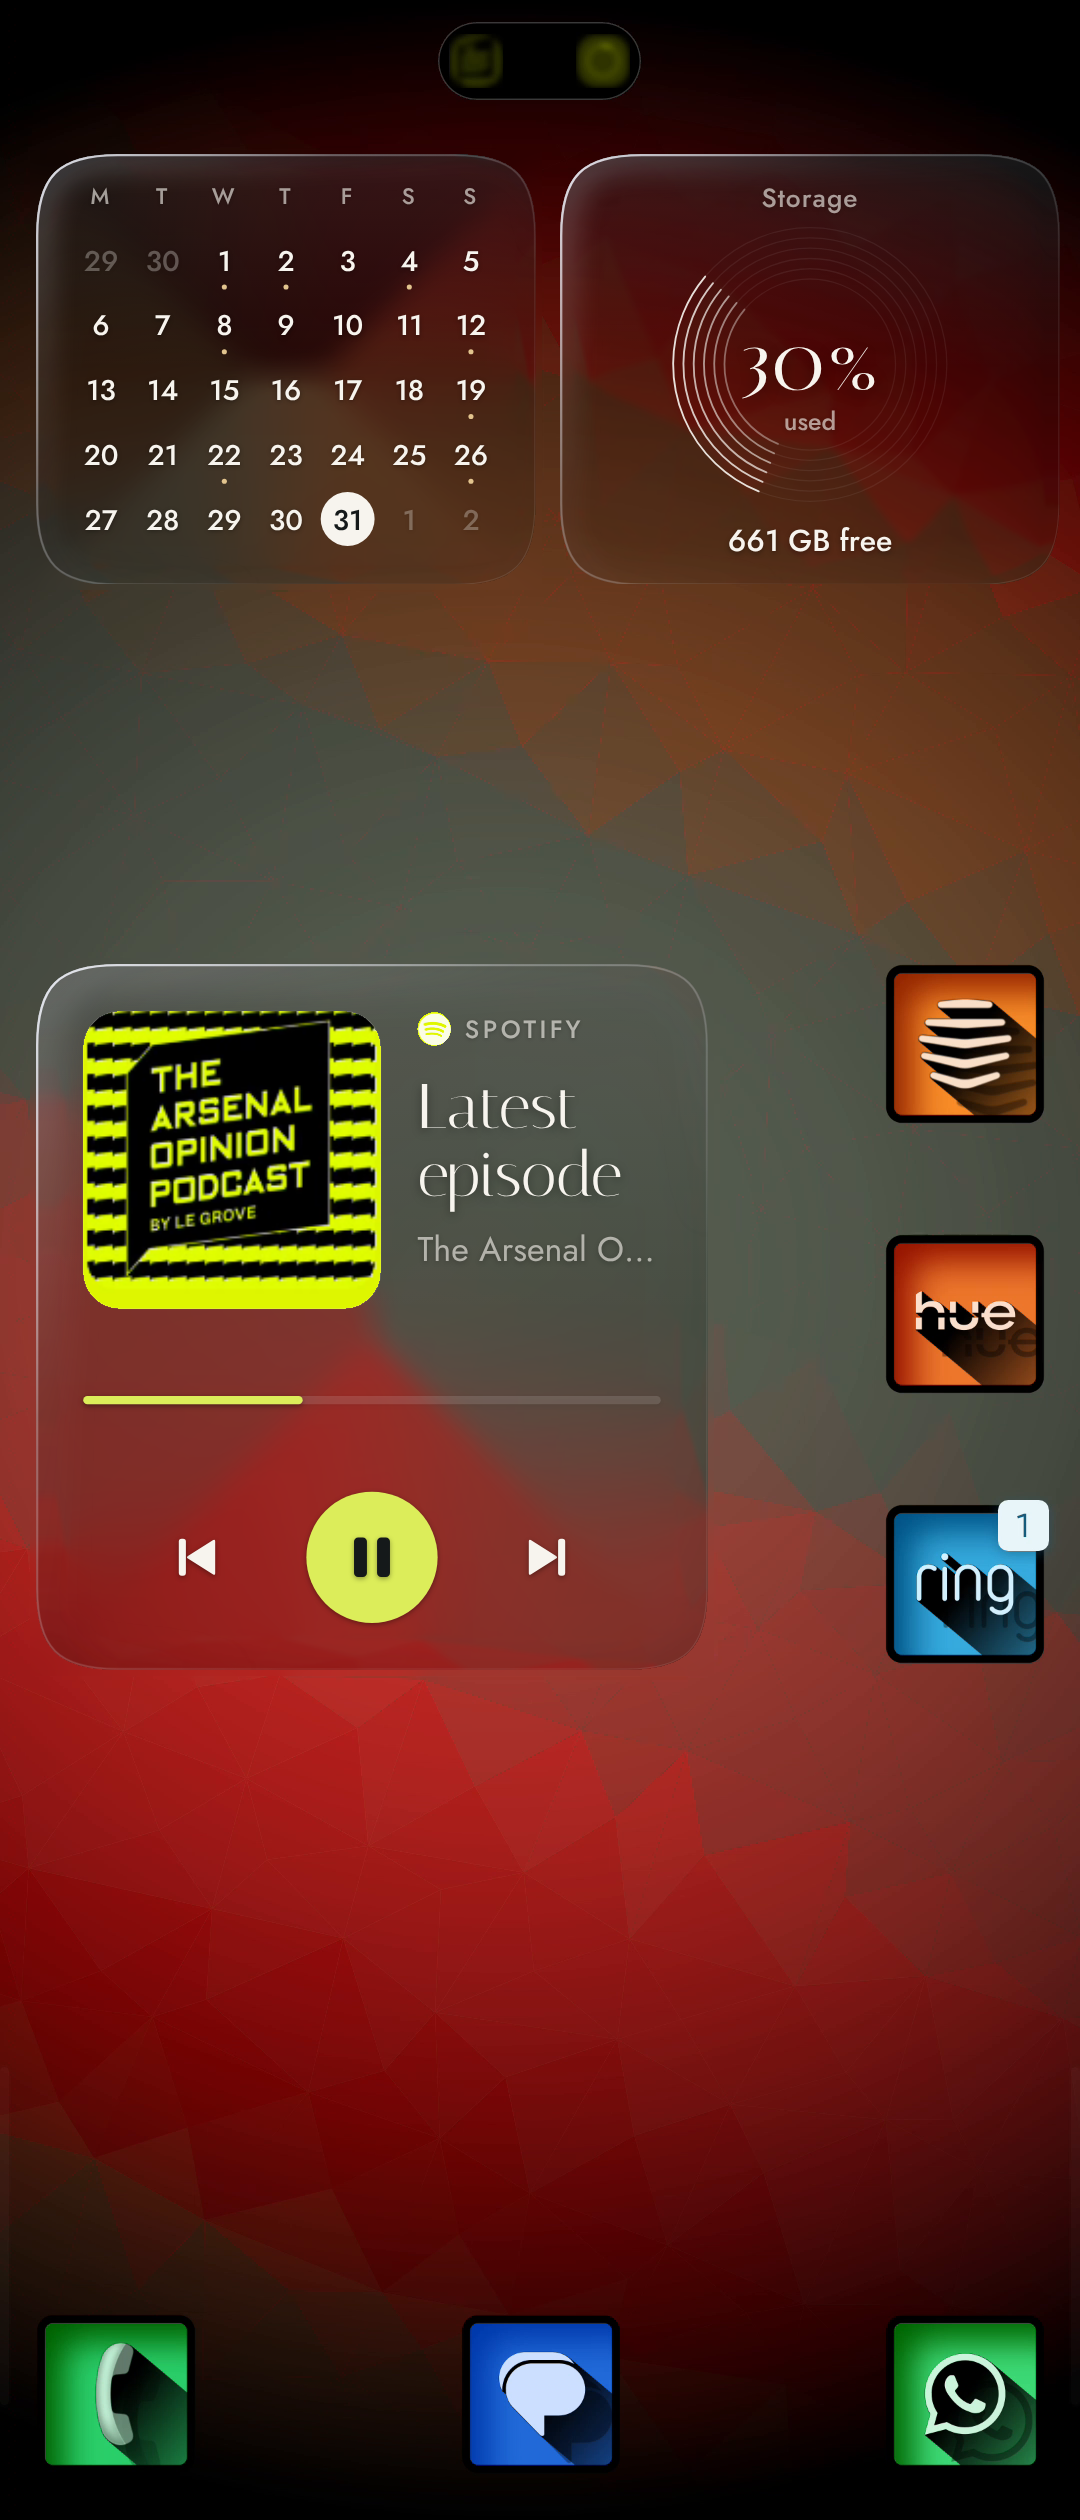
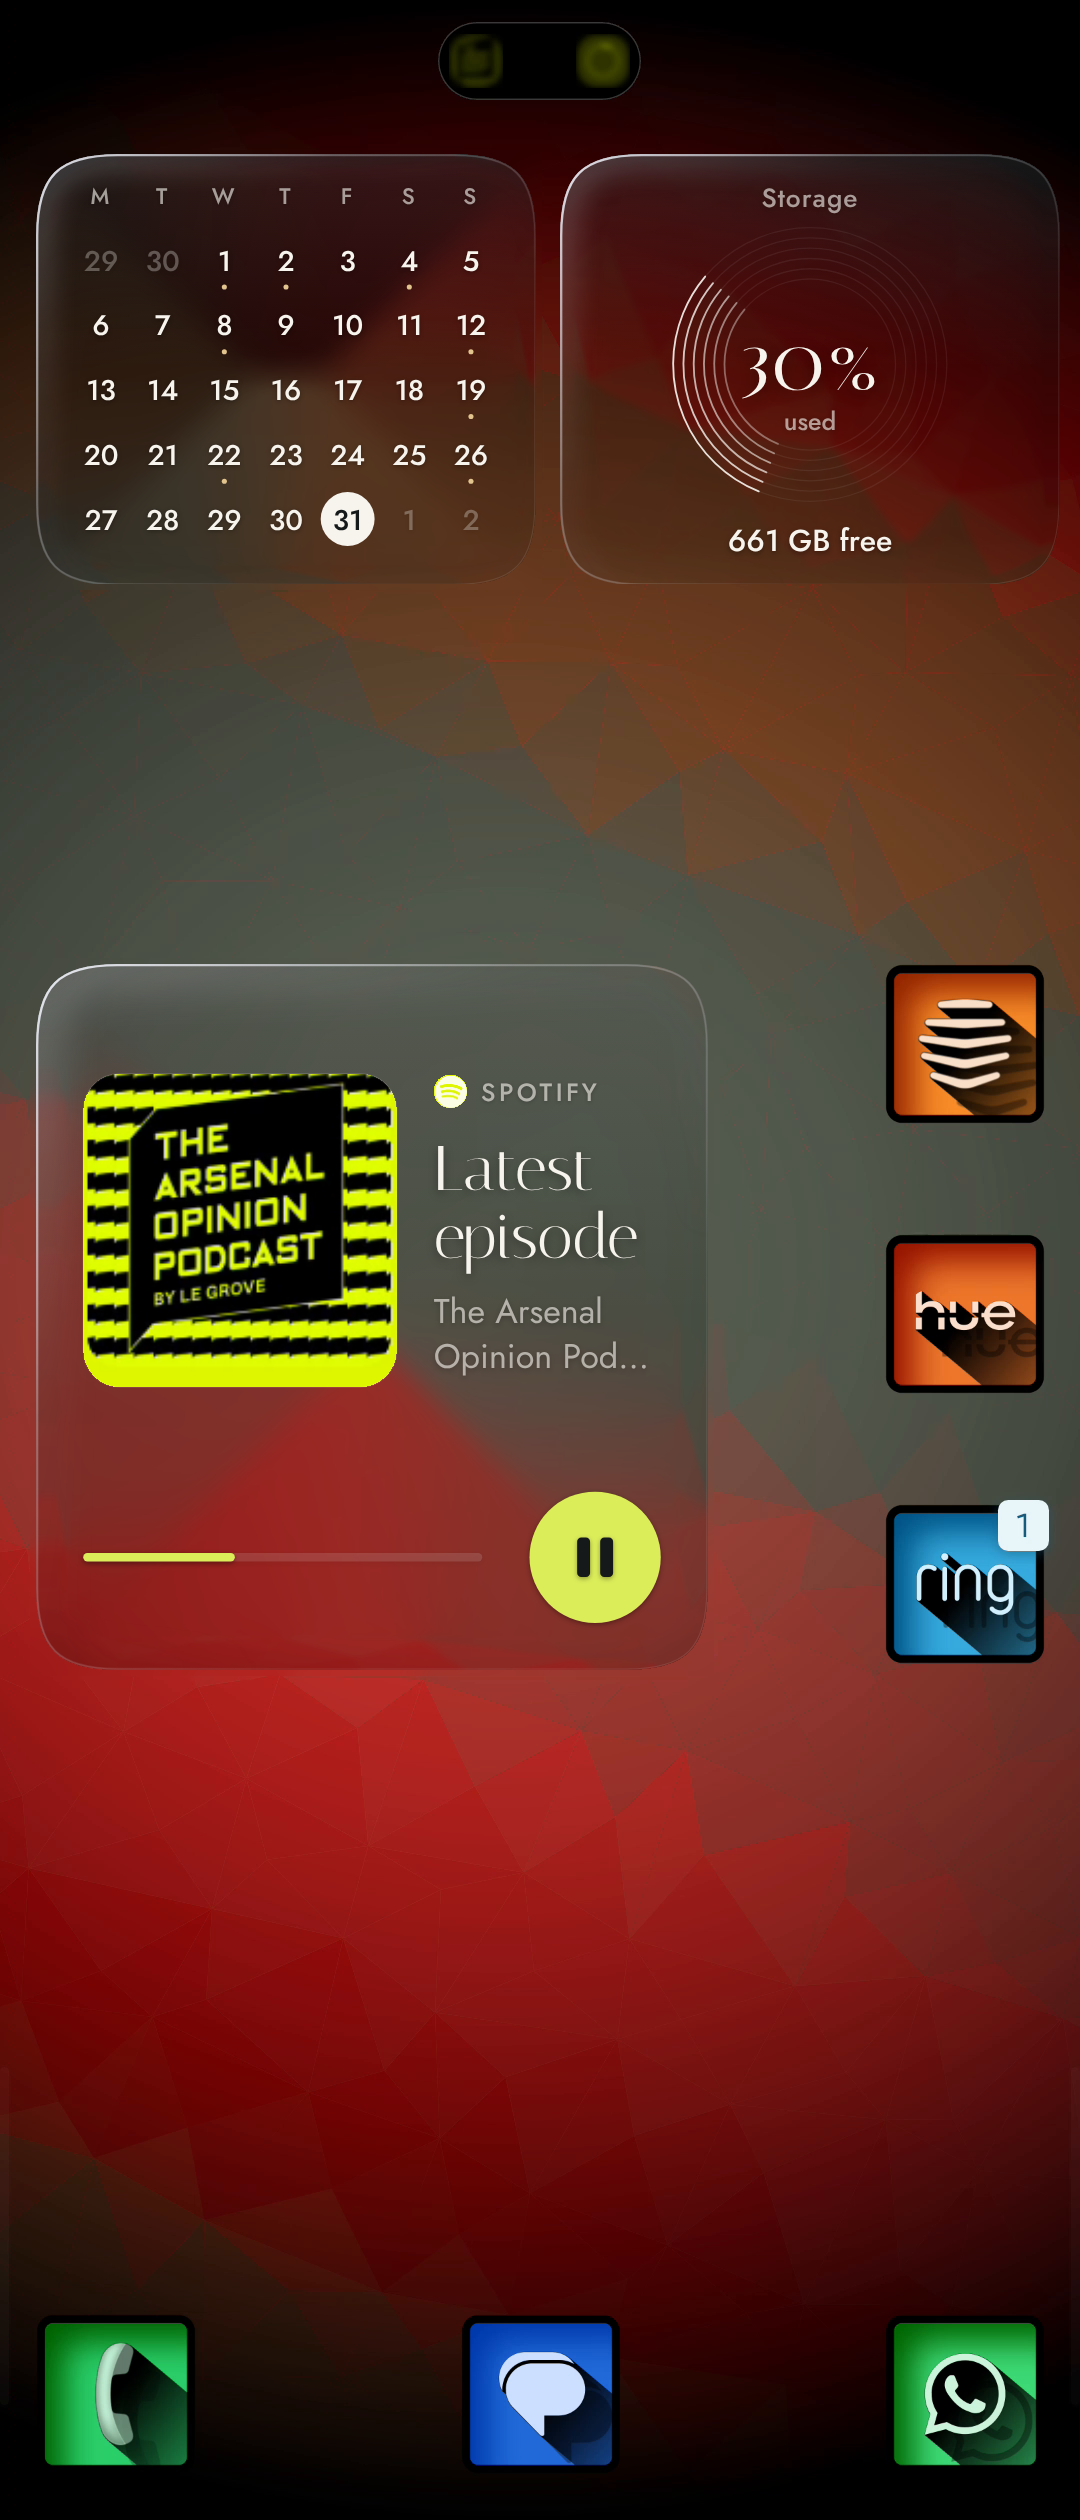
Music: play and pause as the only control
Any other tap opens the player. Artwork takes the room the skip row left;
the large layout centres its artwork and words above the foot.

Claude-Session: https://claude.ai/code/session_01QMeVPiLbYojy7qgmqpFMAv

diff --git a/app/src/main/java/com/fergusonconsultancy/foldwidgets/MusicPainter.kt b/app/src/main/java/com/fergusonconsultancy/foldwidgets/MusicPainter.kt
@@ -13,19 +13,19 @@ import android.graphics.Shader
 /**
  * The music widget. Its content belongs to whatever is playing: the player's name and icon, the
  * artwork, the title and artist, and the one colour the artwork lends to the play disc and the
- * progress line. Only the controls the player supports are drawn.
+ * progress line.
  *
  * Concentrato by size: as the widget shrinks, things fall away in a fixed order until only the
  * vital thing is left. Album, then the player's name, then the progress line and the artist, then
  * the title, until only the artwork and the play disc remain.
  * - Poster, the large default: large artwork, the title set in Italiana beside it.
- * - Stack, the small default: artwork and words above, controls below.
+ * - Stack, the small default: artwork and words above, the line and the play disc below.
  * - Compact: artwork, title and play.
  * - Tile: the artwork alone, with play.
  * - Wide, for long thin shapes: artwork the full height on the left, everything else beside it.
  *
- * Disclosure by need: the skip buttons appear only while something plays. Paused or silent, the
- * one thing to do is play.
+ * One control: play and pause (Mechack, 31 Oct). Everything else is done in the player, which any
+ * other tap on the widget opens.
  */
 object MusicPainter : Painter {
 
@@ -47,7 +47,9 @@ object MusicPainter : Painter {
     private fun stack(c: Context, cv: Canvas, s: Surface, np: NowPlaying?): Scene {
         val k = minOf(s.w / 190f, s.h / 164f).coerceIn(0.72f, 1.6f)
         val p = 14f * k
-        val a = minOf(58f * k, s.h * 0.42f)
+        val r = 20f * k
+        // Without skip buttons the artwork takes the room they left
+        val a = minOf(76f * k, s.h - 2 * p - 2 * r - 12f * k, s.w * 0.42f)
         val art = RectF(p, p, p + a, p + a)
         artwork(cv, art, np, s, 10f * k)
         val x0 = art.right + 12f * k
@@ -60,29 +62,25 @@ object MusicPainter : Painter {
         cv.drawText(fit(titleOf(np), titleP, tw), x0, titleBase, titleP)
         cv.drawText(fit(artistOf(c, np), artistP, tw), x0, artistBase, artistP)
 
-        val r = 20f * k
-        val cy = s.h - p - r
-        val gap = minOf(56f * k, (s.w - 2 * p) / 3.2f)
-        val hits = ArrayList<Hit>()
-        val ly = (art.bottom + cy - r) / 2f
-        val line = if (cy - r - art.bottom > 10f * k) progress(s, np, RectF(p, ly - 1.5f * k, s.w - p, ly + 1.5f * k)) else null
-        Media.openAct(c, np)?.let { hits.add(Hit(RectF(0f, 0f, s.w, (line?.rect?.top ?: (cy - r)) - 2f * k), it, "Open ${np?.app ?: "player"}")) }
-        hits += controls(cv, s, np, s.w / 2f, cy, gap, r, 15f * k)
-        return Scene(hits, line)
+        return foot(c, cv, s, np, p, s.w - p, s.h - p - r, r, 1.5f * k, 14f * k)
     }
 
     private fun poster(c: Context, cv: Canvas, s: Surface, np: NowPlaying?): Scene {
         val k = minOf(s.w / 256f, s.h / 269f).coerceIn(0.8f, 1.7f)
         val p = 18f * k
-        val a = minOf(s.h * 0.5f, (s.w - 2 * p - 14f * k) * 0.55f)
-        val art = RectF(p, p, p + a, p + a)
+        val r = 25f * k
+        val footTop = s.h - p - 2 * r - 16f * k
+        val a = minOf(footTop - p, (s.w - 2 * p - 14f * k) * 0.58f)
+        // The artwork and words sit centred in the room above the foot, not stranded at the top
+        val top = p + ((footTop - p - a) / 2f).coerceAtLeast(0f)
+        val art = RectF(p, top, p + a, top + a)
         artwork(cv, art, np, s, 14f * k)
         val x0 = art.right + 14f * k
         val tw = s.w - x0 - p
-        eyebrow(c, cv, x0, p + 2f * k, tw, 9.5f * k, np, s)
+        eyebrow(c, cv, x0, top + 2f * k, tw, 9.5f * k, np, s)
 
         // The title in Italiana, up to three lines, then the artist beneath
-        var y = p + 2f * k + 9.5f * k * 1.4f + 12f * k
+        var y = top + 2f * k + 9.5f * k * 1.4f + 12f * k
         val titleP = c.ink(24f * k, s.ink(x0 + tw / 2, y + 20f * k), display = true)
         // As many lines as fit beside the artwork, the last one ellipsised, never silently cut
         val titleRoom = ((art.bottom - y - titleP.textSize) / (titleP.textSize * 1.08f)).toInt() + 1
@@ -100,15 +98,7 @@ object MusicPainter : Painter {
             cv.textTop(fit(np.album, albumP, tw), x0, y + 4f * k, albumP)
         }
 
-        val r = 25f * k
-        val cy = s.h - p - r
-        val gap = minOf(74f * k, (s.w - 2 * p) / 3.3f)
-        val ly = (art.bottom + cy - r) / 2f
-        val line = if (cy - r - art.bottom > 12f * k) progress(s, np, RectF(p, ly - 1.6f * k, s.w - p, ly + 1.6f * k)) else null
-        val hits = ArrayList<Hit>()
-        Media.openAct(c, np)?.let { hits.add(Hit(RectF(0f, 0f, s.w, (line?.rect?.top ?: (cy - r)) - 3f * k), it, "Open ${np?.app ?: "player"}")) }
-        hits += controls(cv, s, np, s.w / 2f, cy, gap, r, 18f * k)
-        return Scene(hits, line)
+        return foot(c, cv, s, np, p, s.w - p, s.h - p - r, r, 1.6f * k, 18f * k)
     }
 
     private fun wide(c: Context, cv: Canvas, s: Surface, np: NowPlaying?): Scene {
@@ -127,15 +117,7 @@ object MusicPainter : Painter {
         cv.textTop(fit(artistOf(c, np), artistP, tw), x0, y, artistP); y += artistP.textSize * 1.2f
 
         val r = 18f * k
-        val cy = s.h - p - r
-        val gap = 48f * k
-        val first = x0 + 12f * k
-        val ly = (y + cy - r) / 2f
-        val line = if (cy - r - y > 10f * k) progress(s, np, RectF(x0, ly - 1.4f * k, s.w - p, ly + 1.4f * k)) else null
-        val hits = ArrayList<Hit>()
-        Media.openAct(c, np)?.let { hits.add(Hit(RectF(0f, 0f, x0 - 4f * k, s.h), it, "Open ${np?.app ?: "player"}")) }
-        hits += controls(cv, s, np, first + gap, cy, gap, r, 14f * k)
-        return Scene(hits, line)
+        return foot(c, cv, s, np, x0, s.w - p, s.h - p - r, r, 1.4f * k, 12f * k)
     }
 
     private fun compact(c: Context, cv: Canvas, s: Surface, np: NowPlaying?): Scene {
@@ -250,23 +232,21 @@ object MusicPainter : Painter {
         if (np?.playing == true) Glyphs.pause(cv, cx, cy, glyph * 0.9f, mark) else Glyphs.play(cv, cx + glyph * 0.04f, cy, glyph, mark)
     }
 
-    /** Previous, play and next around ([cx], [cy]); only what the player supports. */
-    private fun controls(cv: Canvas, s: Surface, np: NowPlaying?, cx: Float, cy: Float, gap: Float, r: Float, glyph: Float): List<Hit> {
-        val hits = ArrayList<Hit>()
-        val reach = maxOf(r * 1.15f, 22f)
-        fun area(x: Float) = RectF(x - reach, cy - reach, x + reach, cy + reach)
-        val playing = np?.playing == true
-        if (playing && np!!.canPrevious) {
-            Glyphs.skip(cv, cx - gap, cy, glyph, s.ink(cx - gap, cy), forward = false)
-            hits += Hit(area(cx - gap), Act.Send(TapReceiver.ACTION_PREVIOUS), "Previous")
-        }
+    /**
+     * The foot of the widget: the progress line running from [left] to the play disc, which sits at
+     * [right] on the line's centre [cy]. The disc is the only control; every other tap opens the
+     * player, where anything else can be done.
+     */
+    private fun foot(c: Context, cv: Canvas, s: Surface, np: NowPlaying?, left: Float, right: Float, cy: Float, r: Float,
+                     thickness: Float, gap: Float): Scene {
+        val cx = right - r
+        val line = progress(s, np, RectF(left, cy - thickness, cx - r - gap, cy + thickness))
         disc(cv, s, np, cx, cy, r, r * 0.78f)
-        hits += Hit(area(cx), Act.Send(TapReceiver.ACTION_PLAY), if (np?.playing == true) "Pause" else "Play")
-        if (playing && np!!.canNext) {
-            Glyphs.skip(cv, cx + gap, cy, glyph, s.ink(cx + gap, cy), forward = true)
-            hits += Hit(area(cx + gap), Act.Send(TapReceiver.ACTION_NEXT), "Next")
-        }
-        return hits
+        val hits = ArrayList<Hit>()
+        Media.openAct(c, np)?.let { hits.add(Hit(RectF(0f, 0f, s.w, s.h), it, "Open ${np?.app ?: "player"}")) }
+        val reach = maxOf(r * 1.3f, 24f)
+        hits += Hit(RectF(cx - reach, cy - reach, cx + reach, cy + reach), Act.Send(TapReceiver.ACTION_PLAY), if (np?.playing == true) "Pause" else "Play")
+        return Scene(hits, line)
     }
 
     /** [b] scaled to cover [r], centred. */

diff --git a/app/src/main/java/com/fergusonconsultancy/foldwidgets/Media.kt b/app/src/main/java/com/fergusonconsultancy/foldwidgets/Media.kt
@@ -42,8 +42,6 @@ class NowPlaying(
         val pos = if (playing && updated > 0) position + ((SystemClock.elapsedRealtime() - updated) * speed).toLong() else position
         return (pos.toFloat() / duration).coerceIn(0f, 1f)
     }
-    val canPrevious get() = actions == 0L || actions and PlaybackState.ACTION_SKIP_TO_PREVIOUS != 0L
-    val canNext get() = actions == 0L || actions and PlaybackState.ACTION_SKIP_TO_NEXT != 0L
 }
 
 /**
@@ -52,7 +50,7 @@ class NowPlaying(
  * paused; among equals, the most recently active wins.
  */
 object Media {
-    enum class Control { TOGGLE, NEXT, PREVIOUS }
+    enum class Control { TOGGLE }
 
     private fun component(c: Context) = ComponentName(c, MediaListener::class.java)
 
@@ -141,11 +139,7 @@ object Media {
         val ctl = pick(controllers(c))
         if (ctl == null) {
             // No session: hand the key to whichever app last played, as a headset button would
-            val code = when (what) {
-                Control.TOGGLE -> KeyEvent.KEYCODE_MEDIA_PLAY
-                Control.NEXT -> KeyEvent.KEYCODE_MEDIA_NEXT
-                Control.PREVIOUS -> KeyEvent.KEYCODE_MEDIA_PREVIOUS
-            }
+            val code = KeyEvent.KEYCODE_MEDIA_PLAY
             val am = c.getSystemService(AudioManager::class.java)
             am.dispatchMediaKeyEvent(KeyEvent(KeyEvent.ACTION_DOWN, code))
             am.dispatchMediaKeyEvent(KeyEvent(KeyEvent.ACTION_UP, code))
@@ -154,8 +148,6 @@ object Media {
         val t = ctl.transportControls
         when (what) {
             Control.TOGGLE -> if (active(ctl.playbackState?.state)) t.pause() else t.play()
-            Control.NEXT -> t.skipToNext()
-            Control.PREVIOUS -> t.skipToPrevious()
         }
     }
 

diff --git a/app/src/main/java/com/fergusonconsultancy/foldwidgets/Glyphs.kt b/app/src/main/java/com/fergusonconsultancy/foldwidgets/Glyphs.kt
@@ -34,19 +34,6 @@ object Glyphs {
         c.drawRoundRect(RectF(cx + gap / 2, cy - h / 2, cx + gap / 2 + bw, cy + h / 2), bw * 0.32f, bw * 0.32f, p)
     }
 
-    /** Skip: a triangle into a bar. [forward] points it right. */
-    fun skip(c: Canvas, cx: Float, cy: Float, s: Float, colour: Int, forward: Boolean) {
-        val h = s * 0.78f; val tw = s * 0.62f; val bw = s * 0.15f
-        val dir = if (forward) 1f else -1f
-        val start = cx - dir * (tw + bw) / 2f
-        val tip = start + dir * tw
-        c.drawPath(Path().apply {
-            moveTo(start, cy - h / 2); lineTo(tip, cy); lineTo(start, cy + h / 2); close()
-        }, fill(colour, s * 0.1f))
-        val bx = if (forward) tip else tip - bw
-        c.drawRoundRect(RectF(bx, cy - h / 2, bx + bw, cy + h / 2), bw * 0.4f, bw * 0.4f, fill(colour))
-    }
-
     /** No artwork: a record, the circle as the perfect graphic shape. */
     fun record(c: Canvas, r: RectF, ink: Int) {
         val cx = r.centerX(); val cy = r.centerY(); val rad = minOf(r.width(), r.height()) * 0.34f

diff --git a/app/src/main/java/com/fergusonconsultancy/foldwidgets/Taps.kt b/app/src/main/java/com/fergusonconsultancy/foldwidgets/Taps.kt
@@ -47,8 +47,6 @@ class TapReceiver : BroadcastReceiver() {
         Widgets.seatFrom(c.applicationContext, i)
         when (i.action) {
             ACTION_PLAY -> Media.control(c, Media.Control.TOGGLE)
-            ACTION_NEXT -> Media.control(c, Media.Control.NEXT)
-            ACTION_PREVIOUS -> Media.control(c, Media.Control.PREVIOUS)
             ACTION_WEATHER -> {
                 val pending = goAsync()
                 Thread {
@@ -62,8 +60,6 @@ class TapReceiver : BroadcastReceiver() {
 
     companion object {
         const val ACTION_PLAY = "com.fergusonconsultancy.foldwidgets.PLAY"
-        const val ACTION_NEXT = "com.fergusonconsultancy.foldwidgets.NEXT"
-        const val ACTION_PREVIOUS = "com.fergusonconsultancy.foldwidgets.PREVIOUS"
         const val ACTION_WEATHER = "com.fergusonconsultancy.foldwidgets.WEATHER"
     }
 }

diff --git a/app/src/main/java/com/fergusonconsultancy/foldwidgets/SettingsActivity.kt b/app/src/main/java/com/fergusonconsultancy/foldwidgets/SettingsActivity.kt
@@ -224,7 +224,7 @@ class SettingsActivity : Activity() {
             "as a curved edge bends light. Vetro is frosted and takes the wallpaper's colour. Both carry one highlight at the upper left, " +
             "cool by day and warm and dim at night. Before a widget's first tap its glass is clear and flat.\n\n" +
             "As a widget gets smaller, things fall away in a fixed order until only the vital thing is left: the play disc, today's date, " +
-            "the temperature, the share of storage used. Skip buttons appear only while something plays.\n\n" +
+            "the temperature, the share of storage used. Music has one control, play and pause; any other tap opens the player.\n\n" +
             "The music widget follows the player Android marks as active. Playing beats paused; among equals, the most recent wins."
     }
 }

diff --git a/app/src/main/java/com/fergusonconsultancy/foldwidgets/Widgets.kt b/app/src/main/java/com/fergusonconsultancy/foldwidgets/Widgets.kt
@@ -22,7 +22,7 @@ import java.util.concurrent.Executors
 sealed class Act {
     /** Opens something: a pending intent another app gave us (a player's own screen), or an intent. */
     class Open(val pending: PendingIntent? = null, val intent: Intent? = null) : Act()
-    /** Acts in place: play, skip, refresh. */
+    /** Acts in place: play and pause, refresh. */
     class Send(val action: String) : Act()
 }
 

diff --git a/README.md b/README.md
@@ -44,7 +44,7 @@ that permission. Nothing else is read.
 - **Left out on purpose:** the colour fringe real glass shows at its rim (it reads as glitter), and a
   second lit corner.
 - **Concentrato by size:** smaller widgets shed things in a fixed order until only the vital thing is
-  left. **Disclosure by need:** skip buttons only while something plays.
+  left. **One control** on the music widget, play and pause; any other tap opens the player.
 
 ## Permissions
 
